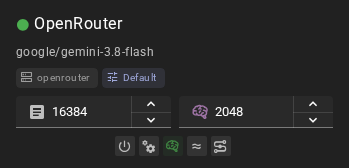
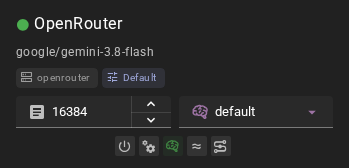
OpenRouter client: reasoning effort; drop reasoning.max_tokens (#782) (#784)
* OpenRouter client: reasoning effort setting; send effort or enabled instead of reasoning.max_tokens (#782)

* Docs and changelog: OpenRouter effort replaces the reasoning budget; retake client card screenshots (PR 784 review)

Changed region(s): [[0.6017, 0.625, 0.745, 0.7143], [0.8309, 0.6548, 0.9456, 0.744], [0.8883, 0.5952, 0.9169, 0.625]]

diff --git a/tests/test_client_openrouter_reasoning.py b/tests/test_client_openrouter_reasoning.py
@@ -1,11 +1,15 @@
 import json
+from types import SimpleNamespace
 
 import httpx
 import pytest
 
 import talemate.config.state as config_state
 from talemate.client import openrouter
+from talemate.agents.context import ActiveAgent
 from talemate.client.context import ClientContext
+from talemate.client.reasoning_effort import EFFORT_LEVELS
+from talemate.config.schema import Config
 
 
 @pytest.fixture
@@ -46,22 +50,18 @@ def client(cfg_isolation, monkeypatch):
     return create
 
 
-async def test_reasoning_on_sends_the_reasoning_budget(client, wire):
-    await client(reason_enabled=True, reason_tokens=2048).generate(
+@pytest.mark.parametrize("effort", EFFORT_LEVELS)
+async def test_reasoning_on_sends_the_effort_without_a_budget(client, wire, effort):
+    await client(reason_enabled=True, effort_level=effort).generate(
         "hello", {"max_tokens": 96}, "conversation"
     )
-    assert wire[-1]["reasoning"] == {"max_tokens": 2048}
+    expected = {"enabled": True} if effort == "default" else {"effort": effort}
+    assert wire[-1]["reasoning"] == expected
 
 
-async def test_reasoning_budget_respects_the_minimum(client, wire):
-    await client(reason_enabled=True, reason_tokens=64).generate(
-        "hello", {"max_tokens": 96}, "conversation"
-    )
-    assert wire[-1]["reasoning"] == {"max_tokens": openrouter.MIN_THINKING_TOKENS}
-
-
-async def test_reasoning_off_sends_no_reasoning_object(client, wire):
-    await client(reason_enabled=False, reason_tokens=2048).generate(
+@pytest.mark.parametrize("effort", ["default", "high"])
+async def test_reasoning_off_sends_no_reasoning_object(client, wire, effort):
+    await client(reason_enabled=False, effort_level=effort).generate(
         "hello", {"max_tokens": 96}, "conversation"
     )
     assert "reasoning" not in wire[-1]
@@ -69,7 +69,71 @@ async def test_reasoning_off_sends_no_reasoning_object(client, wire):
 
 
 async def test_action_override_sends_no_reasoning_object(client, wire):
-    reasoning_client = client(reason_enabled=True, reason_tokens=2048)
+    reasoning_client = client(reason_enabled=True, effort_level="high")
     with ClientContext(disable_reasoning=True, requires_active_scene=False):
         await reasoning_client.generate("hello", {"max_tokens": 96}, "conversation")
     assert "reasoning" not in wire[-1]
+
+
+@pytest.fixture
+def active_agent():
+    agent = SimpleNamespace(
+        agent_type="narrator",
+        verbose_name="Narrator",
+        allow_repetition_break=lambda *args, **kwargs: False,
+        inject_prompt_paramters=lambda *args: None,
+    )
+    with ActiveAgent(agent, lambda: None):
+        yield
+
+
+async def test_reason_tokens_add_room_to_a_capped_response(client, wire, active_agent):
+    capped = client(
+        reason_enabled=True,
+        reason_tokens=64,
+        effort_level="medium",
+        enforce_response_length="cap_tokens",
+    )
+    with ClientContext(requires_active_scene=False):
+        await capped.send_prompt("hello", kind="conversation")
+    assert wire[-1]["max_tokens"] == 96 + 64
+    assert wire[-1]["reasoning"] == {"effort": "medium"}
+
+
+async def test_new_client_defaults_reason_at_the_model_default_effort(
+    client, wire, active_agent
+):
+    defaults = openrouter.OpenRouterClient.Meta().defaults.model_dump()
+    defaults.pop("model")
+    new_client = client(**defaults)
+    assert new_client.effort_level == "default"
+    assert new_client.reason_tokens == 2048
+    with ClientContext(requires_active_scene=False):
+        await new_client.send_prompt("hello", kind="conversation")
+    assert wire[-1]["reasoning"] == {"enabled": True}
+    assert "max_tokens" not in wire[-1]
+
+
+def test_status_offers_the_effort_selector_and_the_allowance(client):
+    reasoning_client = client(reason_enabled=True, effort_level="low")
+    status = reasoning_client._common_status_data()
+    assert status["reasoning_display"]["show_effort_selector"]
+    assert not status["reasoning_display"]["show_token_slider"]
+    assert status["reasoning_display"]["effort_choices"] == EFFORT_LEVELS
+    assert status["min_reason_tokens"] == 0
+    meta = openrouter.OpenRouterClient.Meta()
+    assert meta.reason_tokens_as_allowance
+    choices = meta.extra_fields["effort_level"].choices
+    assert [choice["value"] for choice in choices] == EFFORT_LEVELS
+
+
+def test_saved_client_without_an_effort_gets_default_and_keeps_its_tokens():
+    saved = {"type": "openrouter", "name": "saved", "reason_tokens": 4096}
+    config = Config.model_validate({"clients": {"saved": saved}})
+    loaded = config.clients["saved"]
+    assert loaded.effort_level == "default"
+    assert loaded.reason_tokens == 4096
+    loaded.effort_level = "medium"
+    restored = Config.model_validate_json(config.model_dump_json()).clients["saved"]
+    assert restored.effort_level == "medium"
+    assert restored.reason_tokens == 4096

diff --git a/src/talemate/client/openrouter.py b/src/talemate/client/openrouter.py
@@ -22,6 +22,12 @@ from talemate.client.remote import (
 from talemate.config.schema import Client as BaseClientConfig
 from talemate.config import get_config
 
+from talemate.client.reasoning_effort import (
+    EffortFormat,
+    ReasoningEffortConfig,
+    ReasoningEffortMixin,
+    reasoning_effort_extra_fields,
+)
 from talemate.client.registry import register
 from talemate.client.toggleable_parameters import (
     ToggleableParametersMixin,
@@ -337,7 +343,12 @@ handlers["talemate_started"].connect(on_talemate_started)
 async_signals.get("config.saved").connect(on_config_saved)
 
 
-class Defaults(ToggleableParametersConfig, CommonDefaults, pydantic.BaseModel):
+class Defaults(
+    ReasoningEffortConfig,
+    ToggleableParametersConfig,
+    CommonDefaults,
+    pydantic.BaseModel,
+):
     max_token_length: int = 16384
     model: str = DEFAULT_MODEL
     # Reasoning on by default: with it off the client is coercible, and several
@@ -349,7 +360,12 @@ class Defaults(ToggleableParametersConfig, CommonDefaults, pydantic.BaseModel):
     provider_ignore: list[str] = pydantic.Field(default_factory=list)
 
 
-class ClientConfig(ToggleableParametersConfig, ConcurrentInference, BaseClientConfig):
+class ClientConfig(
+    ReasoningEffortConfig,
+    ToggleableParametersConfig,
+    ConcurrentInference,
+    BaseClientConfig,
+):
     concurrent_inference_enabled: bool = True
     provider_only: list[str] = pydantic.Field(default_factory=list)
     provider_ignore: list[str] = pydantic.Field(default_factory=list)
@@ -361,8 +377,6 @@ PROVIDER_FIELD_GROUP = FieldGroup(
     description="Configure OpenRouter provider routing.",
     icon="mdi-server-network",
 )
-
-MIN_THINKING_TOKENS = 256
 
 
 def cache_control_for_model(model_name: str) -> dict | None:
@@ -383,7 +397,12 @@ def cache_control_for_model(model_name: str) -> dict | None:
 
 
 @register()
-class OpenRouterClient(ConcurrentInferenceMixin, ToggleableParametersMixin, ClientBase):
+class OpenRouterClient(
+    ReasoningEffortMixin,
+    ConcurrentInferenceMixin,
+    ToggleableParametersMixin,
+    ClientBase,
+):
     """
     OpenRouter client for generating text using various models.
     """
@@ -404,6 +423,7 @@ class OpenRouterClient(ConcurrentInferenceMixin, ToggleableParametersMixin, Clie
         )
         unified_api_key_config_path: str = "openrouter.api_key"
         requires_prompt_template: bool = False
+        reason_tokens_as_allowance: bool = True
         defaults: Defaults = Defaults()
 
         @staticmethod
@@ -429,6 +449,7 @@ class OpenRouterClient(ConcurrentInferenceMixin, ToggleableParametersMixin, Clie
                     required=False,
                 ),
             }
+            fields.update(reasoning_effort_extra_fields())
             fields.update(toggleable_parameters_extra_fields(TOGGLEABLE_PARAMETERS))
             fields.update(concurrent_inference_extra_fields())
             return fields
@@ -458,8 +479,8 @@ class OpenRouterClient(ConcurrentInferenceMixin, ToggleableParametersMixin, Clie
         return False
 
     @property
-    def min_reason_tokens(self) -> int:
-        return MIN_THINKING_TOKENS
+    def reasoning_effort_format(self) -> EffortFormat:
+        return "reasoning"
 
     def emit_status(self, processing: bool = None):
         error_action = None
@@ -568,7 +589,12 @@ class OpenRouterClient(ConcurrentInferenceMixin, ToggleableParametersMixin, Clie
             **parameters,
         }
         if self.reason_enabled:
-            payload["reasoning"] = {"max_tokens": self.validated_reason_tokens}
+            # OpenRouter refuses reasoning.effort and reasoning.max_tokens together.
+            payload["reasoning"] = (
+                {"effort": self.reasoning_effort}
+                if self.reasoning_effort is not None
+                else {"enabled": True}
+            )
 
         self.log.debug(
             "generate",

diff --git a/docs/user-guide/clients/reasoning.md b/docs/user-guide/clients/reasoning.md
@@ -13,9 +13,9 @@ To enable reasoning support for a client:
 
 ## Configuring Reasoning Tokens
 
-The [OpenAI](types/openai.md#reasoning-effort) and [OpenAI Compatible](types/openai-compatible.md#reasoning) clients offer **Reasoning Effort** to control thinking depth. Their token field is called **Extra Completion Tokens**: it adds headroom to the total completion limit, rather than setting a separate thinking budget. Existing saved token values are preserved. Compatible servers also need a **Reasoning Effort Format** selection before an effort is sent. Both clients offer a **Completion Token Parameter** choice: native OpenAI defaults to `max_completion_tokens`, while OpenAI Compatible defaults to `max_tokens`. The native OpenAI client locks Reasoning on for model names starting with `gpt-5` or `gpt-6`, including during per-action overrides. For other models and OpenAI Compatible clients, the effort and the allowance follow your Reasoning setting: with Reasoning off, neither is sent. Saved token and effort values are preserved.
+The [OpenAI](types/openai.md#reasoning-effort), [OpenAI Compatible](types/openai-compatible.md#reasoning) and [OpenRouter](types/openrouter.md#reasoning) clients offer **Reasoning Effort** to control thinking depth. Their token field is called **Extra Completion Tokens**: it adds headroom to the total completion limit, rather than setting a separate thinking budget. Existing saved token values are preserved. Compatible servers also need a **Reasoning Effort Format** selection before an effort is sent. The OpenAI and OpenAI Compatible clients offer a **Completion Token Parameter** choice: native OpenAI defaults to `max_completion_tokens`, while OpenAI Compatible defaults to `max_tokens`. The native OpenAI client locks Reasoning on for model names starting with `gpt-5` or `gpt-6`, including during per-action overrides. For other models, and for OpenAI Compatible and OpenRouter clients, the effort and the allowance follow your Reasoning setting: with Reasoning off, neither is sent. On OpenRouter, the `default` effort only asks the model to think (`{"enabled": true}`), so the model uses its own default effort. Saved token and effort values are preserved.
 
-Once reasoning is enabled, you can set **Reasoning Tokens** in its number field:
+Once reasoning is enabled, you can set **Reasoning Tokens** (or **Extra Completion Tokens** on clients with Reasoning Effort) in its number field:
 
 ![Reasoning tokens configuration](/talemate/img/0.40.0/client-reasoning.png)
 
@@ -23,7 +23,9 @@ Once reasoning is enabled, you can set **Reasoning Tokens** in its number field:
 
 The client's card in the client list has one row for its budgets. The first field is the context token budget. While reasoning is on, the second field is the reasoning token budget, or a dropdown of effort levels for clients that use an effort level. Type an exact value, such as 32768, or use the arrows beside the field; the card saves the change after a short pause. If you leave a field empty, below its minimum (1024 for the context budget) or above 10,000,000, it goes back to the saved value. The arrows stop at the minimum. The :material-brain: button on the card turns reasoning on and off.
 
-![Client card with the context and reasoning token budgets](/talemate/img/0.40.0/client-reasoning-2.png)
+![Client card with the context token budget and the effort dropdown of an OpenRouter client](/talemate/img/0.40.0/client-reasoning-2.png)
+
+The picture shows an OpenRouter client, which uses an effort level. On a client with a reasoning token budget, the second field is a number field instead.
 
 When you turn reasoning off, the reasoning field is replaced by a **Reasoning Disabled** chip in the same row, so you can see the state at a glance. When you turn reasoning back on, the field returns in that row. A client that always reasons, such as an OpenAI gpt-5 model, never shows the chip: its brain button is locked on.
 

diff --git a/docs/user-guide/clients/types/openrouter.md b/docs/user-guide/clients/types/openrouter.md
@@ -58,11 +58,29 @@ This is **on by default**. See the [Concurrent Requests](/talemate/user-guide/cl
 
 ### Reasoning
 
-New OpenRouter clients start with reasoning on and 2048 **Reasoning Tokens**. A client you saved before keeps its own setting. Turn **Reasoning** on or off in the **Reasoning** section of the client editor, or with the :material-brain: button on the client card.
+New OpenRouter clients start with reasoning on, **Reasoning Effort** `default` and 2048 **Extra Completion Tokens**. A client you saved before keeps its own reasoning setting. Turn **Reasoning** on or off in the **Reasoning** section of the client editor, or with the :material-brain: button on the client card.
 
-With reasoning on, Talemate asks OpenRouter to let the model think first, with a budget set by **Reasoning Tokens** (at least 256). With reasoning off, Talemate sends no reasoning request at all, and the card shows a **Reasoning Disabled** chip. A model that thinks only when asked, such as Claude Haiku 4.5, then answers straight away. A model that always thinks, such as Gemini 3.8 Flash, still thinks by its own default.
+With reasoning on, Talemate asks OpenRouter to let the model think first:
+
+- **Reasoning Effort** sets how much the model thinks. Choose `low`, `medium` or `high`, or another level that OpenRouter defines (`none`, `minimal`, `xhigh` or `max`). Talemate sends your choice as the reasoning effort for any model.
+- With `default`, Talemate only asks the model to think, and the model uses its own default effort. OpenRouter lists that default for each model; for Gemini 3.8 Flash it is `medium`.
+- **Extra Completion Tokens** adds room for the thinking and the answer when you limit the response length with a token cap. It is not a thinking budget. With the default **Adaptive** response length, reasoning sends no token cap, and this number has no effect on the request.
+
+When reasoning is on, the client card shows the effort in a dropdown next to the context token budget, where you can change it quickly.
+
+For example, a story uses Gemini 3.8 Flash to decide what each character saw. With effort `medium`, the model thinks through the scene before it answers. With effort `low`, it often answers at once without thinking.
+
+OpenRouter usually accepts a level that your model does not list. One exception: a model that must always think refuses `none`, and Talemate shows the error from OpenRouter. Choose another level, or turn **Reasoning** off.
+
+With reasoning off, Talemate sends no reasoning request at all, and the card shows a **Reasoning Disabled** chip. A model that thinks only when asked, such as Claude Haiku 4.5, then answers straight away. A model that always thinks, such as Gemini 3.8 Flash, still thinks by its own default.
 
 You can keep reasoning on when you pick a model that cannot think. OpenRouter ignores the reasoning request for such a model, and the model answers as usual.
+
+!!! tip "Getting empty responses?"
+    If you use a response length mode with a token cap, the thinking can use up the whole cap before the model writes its answer. Increase **Extra Completion Tokens**, choose a lower effort, or use the **Adaptive** response length.
+
+!!! note "Reasoning Tokens is now Extra Completion Tokens"
+    Talemate 0.39 sent **Reasoning Tokens** to OpenRouter as a thinking budget. OpenRouter does not accept a budget together with an effort, and a small budget can stop a model such as Gemini 3.8 Flash from thinking at all. So Talemate now sends the effort instead. Your saved number stays, as **Extra Completion Tokens**.
 
 !!! warning "Keep reasoning on for Google models"
     With reasoning off, Talemate may pre-fill the start of the answer to steer the model. Google models on OpenRouter refuse such requests with an error, so keep reasoning on for them.

diff --git a/docs/getting-started/setup-wizard.md b/docs/getting-started/setup-wizard.md
@@ -44,7 +44,7 @@ A one-line pointer above the settings links to the [Model expectations](model-ex
 Once the client has been created, the wizard will automatically advance to the next step.
 
 !!! info "Reasoning Models"
-    If you are using a reasoning model (like DeepSeek R1 or GLM), you will need to enable reasoning in the client settings after setup. For OpenRouter users, new clients have reasoning enabled by default with a budget of 2048 reasoning tokens, so the default model selected during the wizard (Gemini 3.7 Flash) and other reasoning models work out of the box. If you switch to a model that does not reason, you can turn reasoning off in the client settings.
+    If you are using a reasoning model (like DeepSeek R1 or GLM), you will need to enable reasoning in the client settings after setup. For OpenRouter users, new clients have reasoning on by default at the model's default effort, so the default model selected during the wizard (Gemini 3.7 Flash) and other reasoning models work out of the box. If you switch to a model that does not reason, you can turn reasoning off in the client settings.
 
 ## Step 3: Configure Long-term Memory
 
